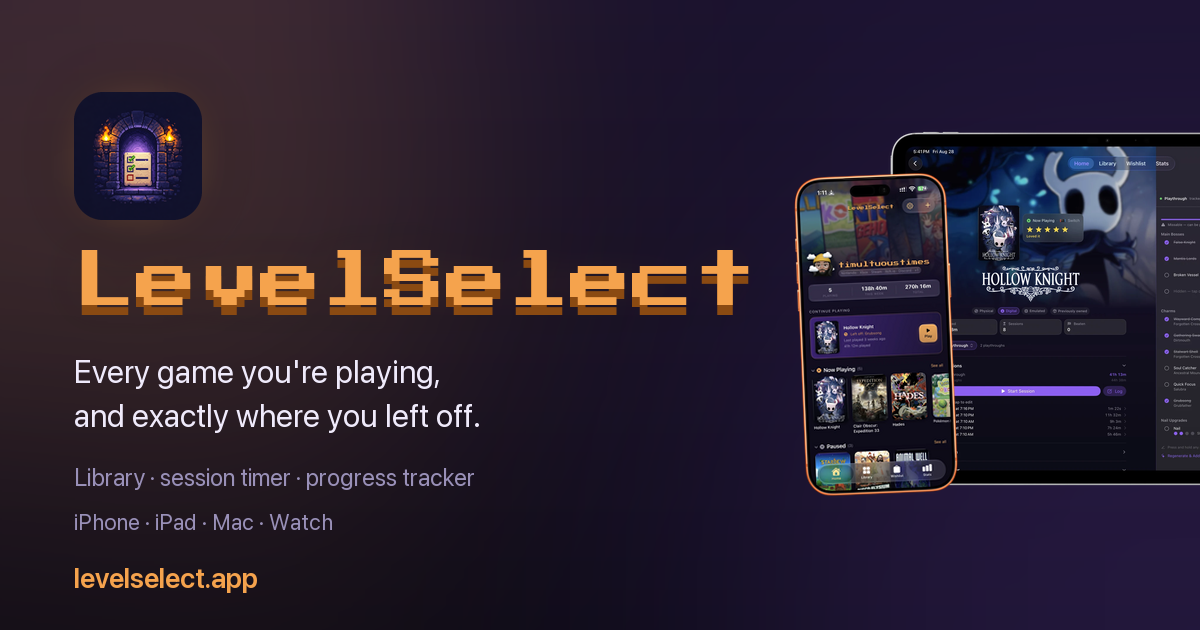
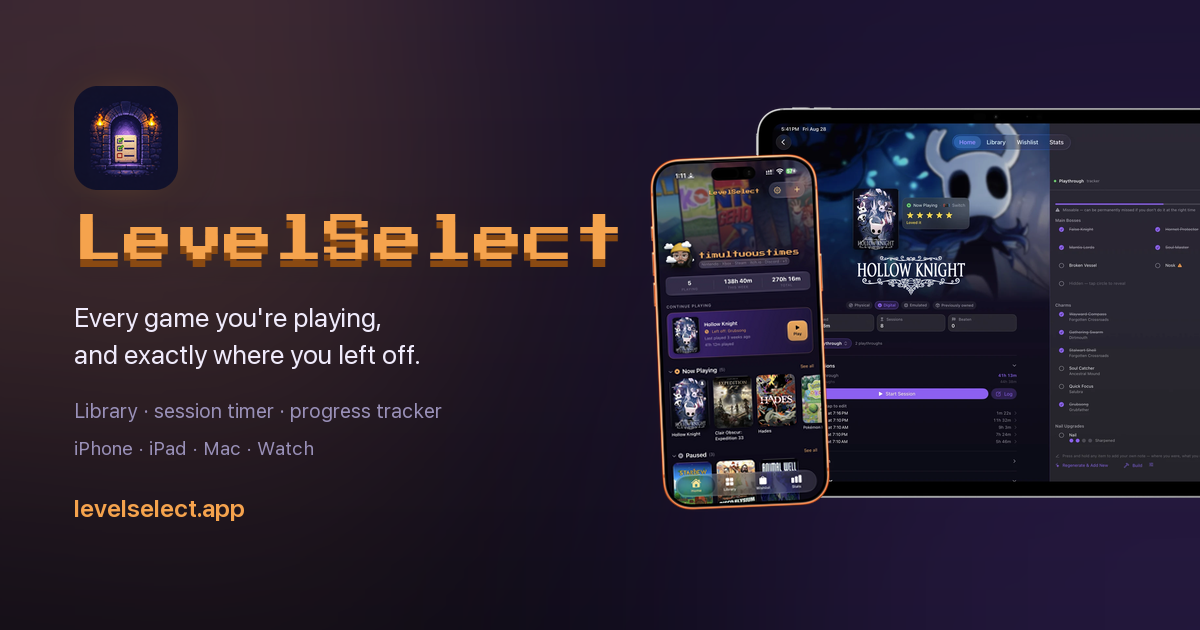
Smaller type on the link preview so the devices fit
At 62px the wordmark ran to about x756 — Press Start 2P is one em per
character — which left 444px of canvas for a pair 616 wide. A third of the
iPad fell off the right edge, and the phone was crowding it.

Wordmark down to 50, the lines under it from 32/24/22/28 to 27/20/19/25,
the icon from 128 to 104. The art starts at 645 now instead of 790 and only
about 60px bleeds, which is what an unfurler crops anyway.

The words were never the thing anyone was squinting at. A link preview is
seen at thumbnail size and its job is to be recognised, not read — the
screens do that work, and they needed the room more than the type did.

Changed region(s): [[0.0617, 0.1206, 1.0, 0.8143], [0.0617, 0.754, 0.4008, 0.8444], [0.0617, 0.9048, 0.2158, 0.9349]]

diff --git a/site/scripts/make-social-images.py b/site/scripts/make-social-images.py
@@ -205,33 +205,27 @@ def open_graph(pair):
     img = glow(img, (250, 250), 340, TORCH, 0.20)
     img = glow(img, (980, 430), 380, ACCENT, 0.16)
 
-    icon = app_icon(128)
-    img.alpha_composite(icon, (74 + 64 - icon.width // 2, 92 + 64 - icon.height // 2))
+    icon = app_icon(104)
+    img.alpha_composite(icon, (74 + 52 - icon.width // 2, 86 + 52 - icon.height // 2))
 
-    img = wordmark(img, (74, 250), 62)
+    # Type is smaller than it was so the devices fit.
+    #
+    # At 62px the wordmark ran to about x756 (Press Start 2P is one em per
+    # character), which left 444px for a pair 616 wide — a third of the iPad
+    # fell off the right edge. At 50px it ends near x624, and the art starts at
+    # 645 with only about 60px bleeding. The words were never the thing anyone
+    # was squinting at; the screens were.
+    img = wordmark(img, (74, 214), 50)
     d = ImageDraw.Draw(img)
-    d.text((74, 352), "Every game you're playing,", font=sans(32, 400), fill=INK)
-    d.text((74, 396), "and exactly where you left off.", font=sans(32, 400), fill=INK)
-    d.text((74, 462), "Library · session timer · progress tracker",
-           font=sans(24, 400), fill=MUTED)
-    d.text((74, 508), "iPhone · iPad · Mac · Watch", font=sans(22, 400), fill=MUTED)
-    d.text((74, 560), "levelselect.app", font=sans(28, 600), fill=TORCH)
+    d.text((74, 300), "Every game you're playing,", font=sans(27, 400), fill=INK)
+    d.text((74, 337), "and exactly where you left off.", font=sans(27, 400), fill=INK)
+    d.text((74, 398), "Library · session timer · progress tracker",
+           font=sans(20, 400), fill=MUTED)
+    d.text((74, 436), "iPhone · iPad · Mac · Watch", font=sans(19, 400), fill=MUTED)
+    d.text((74, 492), "levelselect.app", font=sans(25, 600), fill=TORCH)
 
-    # Bled off the right edge so a crop can't behead it. The pair starts
-    # further right and stands shorter: the wordmark runs to ~x756 at 62px
-    # (Press Start 2P is one em per character), and the phone was landing on
-    # its final letter.
-    # The pair is wider than it was — the iPad leads now — so it is shorter
-    # here and starts further left, otherwise more than half the iPad falls off
-    # the right edge. The wordmark runs to about x756 at 62px (Press Start 2P
-    # is one em per character), so 764 is as far left as the art can go.
-    # 790, not further left. The wordmark runs to about x756 at 62px (Press
-    # Start 2P is one em per character) and at 764 the phone landed on its
-    # final letter — which is the same collision the original note here warned
-    # about. The pair is shorter instead, so the iPad still reads without the
-    # art having to encroach on the type.
-    art = devices(pair, 700 if not pair else 384)
-    img.alpha_composite(art, (835, 92) if not pair else (790, 128))
+    art = devices(pair, 700 if not pair else 424)
+    img.alpha_composite(art, (835, 92) if not pair else (645, 103))
     return img, f"og{'-2up' if pair else ''}.png"
 
 
